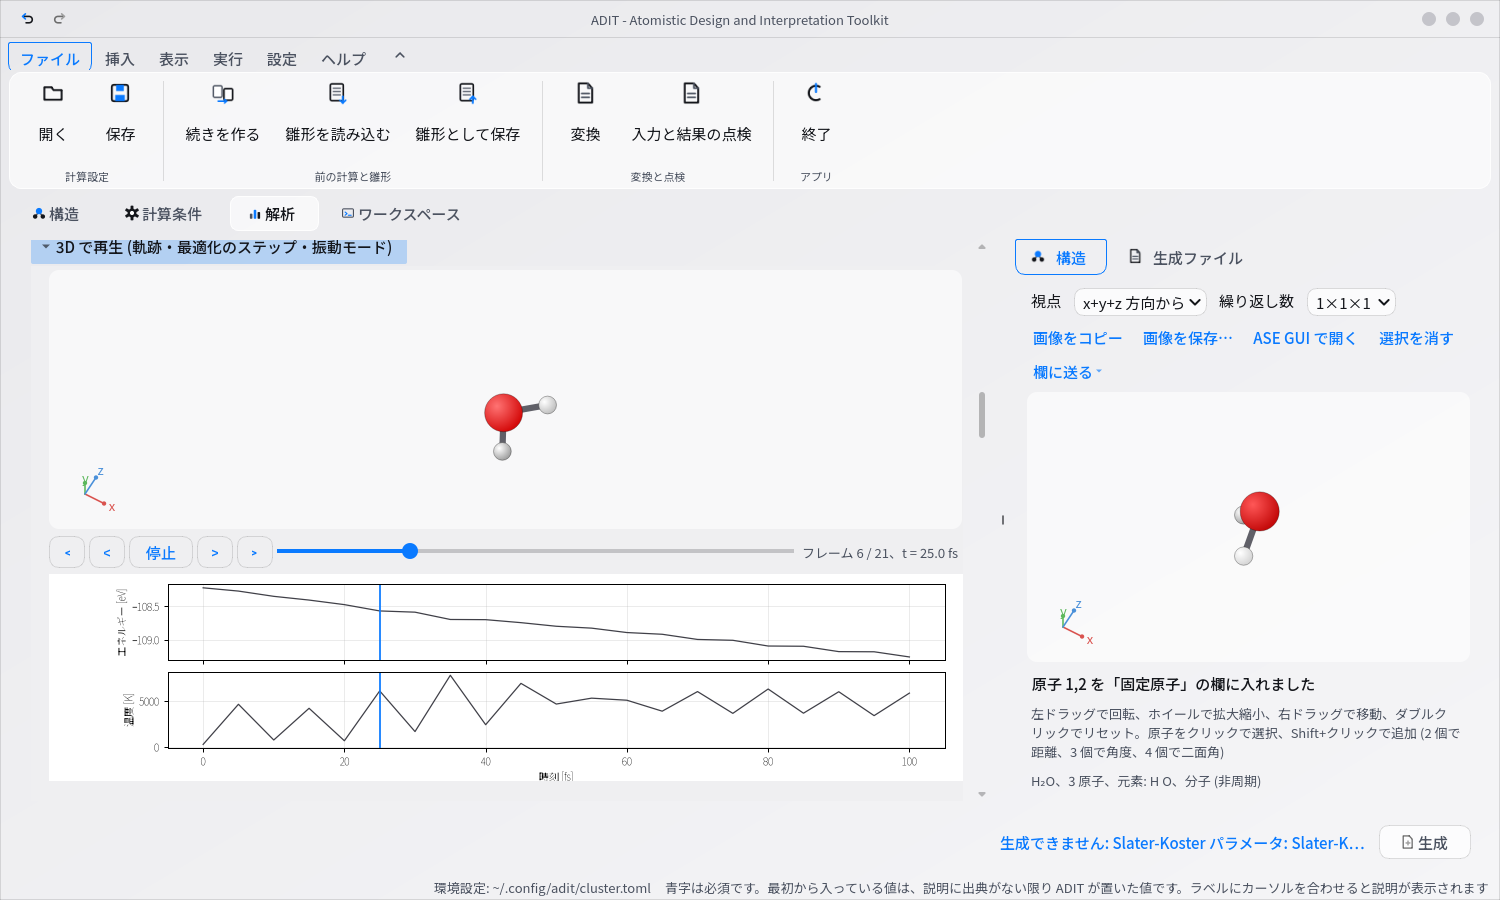
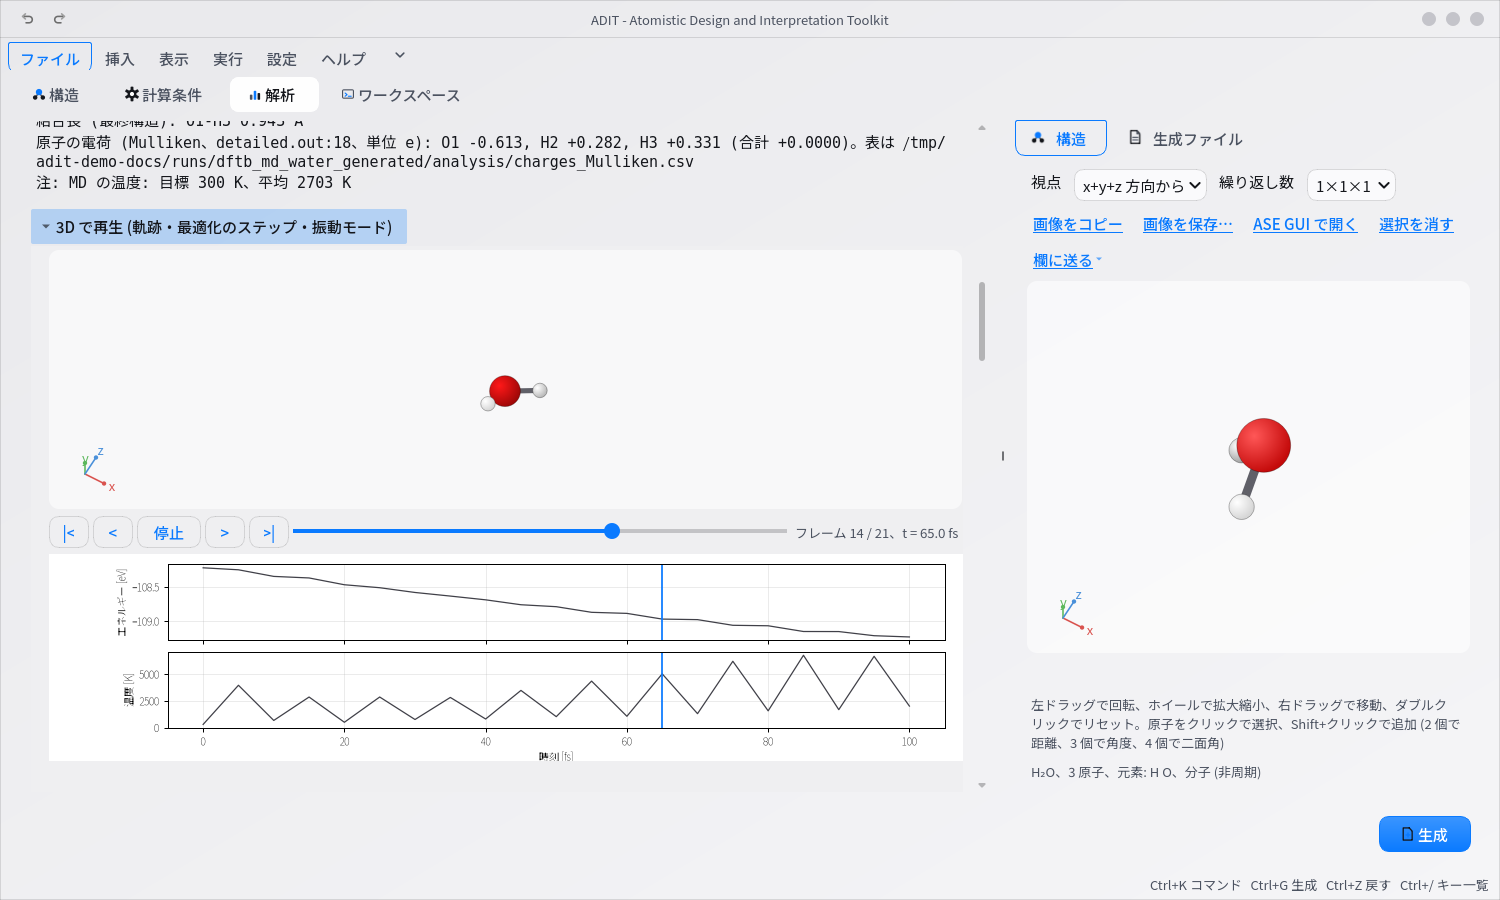
Retake the screenshots and describe the reworked screen
All 19 tutorial images and the six desktop/viewer images are taken again
with the current interface: required marks as pills, the collapsed ribbon
(opened only in the ribbon images), the badge and per-field reasons when
nothing can be generated, the changed-field bars, the split status bar and
the run in the workspace terminal. The tutorial and the screen description
now describe those parts instead of the blue labels and the old status line.

diff --git a/docs/SCREENS.md b/docs/SCREENS.md
@@ -12,10 +12,11 @@
 - **進捗と空の領域**: 「作る」と「解析を実行」は裏で動きます。1 秒未満なら何も出ず、1 秒を超えると進捗バーと「中止」が出て、10 秒を超えると割合と残り時間の目安に変わります (溶液の詰め込みは分子数、組み立て手順は手順数で数えます)。まだ何もない領域 (ワークスペースのエディタ、解析の結果、生成できないときの生成ファイル、一括生成の画面) には、見出しと 1 行の説明と次に押すボタンが出ます
 - **コマンドパレット** (Ctrl+K): 操作・欄・プリセットを名前で検索して、そのまま実行したり欄へ飛んだりできます。日本語でも英語でも探せます (例「温度」「generate」「水」)。ボタンにカーソルを合わせると、ショートカットが「生成 (Ctrl+G)」の形で出ます。Ctrl+/ で全ショートカットの一覧が開きます
 - **リボン** (Word と同じ形): 見出しを押すと、その下にボタンが群ごとに並びます。ファイル (計算設定 spec.json を開く・保存、終了)、挿入 (Draw: 分子を描く、構造ファイルの読み込み、溶液に成分を追加)、表示 (右側のタブ)、実行 (生成、1 つの条件を変えて一括生成、段階に分けて生成、まとめて作る: 比べる組・配座・反応経路・フォノン・弾性定数・遷移状態)、設定 (環境設定、言語、テーマ、ウィンドウの枠)、ヘルプ (コマンドパレット、ショートカット一覧、README、ADIT について)。最初は畳まれていて、見出しの列だけが見えます。見出しを押すとその下にボタンが 1 行で並び、ボタンを押すとまた畳まれます。開いたままにするには、見出しの右の ˅ ボタンか Ctrl+F1 を押します (もう一度押すと畳みます)。畳む / 開くの状態は環境設定の `ribbon_collapsed` に保存され、次回も同じ状態で始まります
-- **上端**: 左に小さな「元に戻す / やり直す」(設定の履歴、Ctrl+Z / Ctrl+Shift+Z)。その下に「構造」「計算条件」「解析」「ワークスペース」の切り替えがあり、画面の左側がその内容に変わります
+- **上端**: 題名の行の左に小さな「元に戻す / やり直す」(設定の履歴、Ctrl+Z / Ctrl+Shift+Z)。その下がリボンの見出しの列、さらにその下に「構造」「計算条件」「解析」「ワークスペース」の切り替えがあり、画面の左側がその内容に変わります
 - **左側** (「計算条件」のとき): 2 列に分かれ、左の列に「計算の種類」「k 点」「実行環境とリソース」、右の列に「計算手法」の群が並びます (窓が狭いときは 1 列になります)。「構造」のときは構造の作り方と組み立て手順の群です
-- **右側のタブ**: 構造 (マウスで回せる 3D 表示) と生成ファイル (プレビュー)。「ワークスペース」のときは隠れて、画面全体をファイル・エディタ・ターミナルに使います
+- **右側のタブ**: 構造 (マウスで回せる 3D 表示。原子を選んで距離や角度を測り、欄に送れます) と生成ファイル (プレビュー。生成できないときは、その理由と「欄へ移動」のボタン)。「ワークスペース」のときは隠れて、画面全体をファイル・エディタ・ターミナルに使います
 - **右下**: 「生成」ボタン (Ctrl+G)。押すと出力ディレクトリに入力一式が書かれ、ワークスペースのターミナルがそこへ移動します。生成できないときは、その左に「2 件の不足」のような赤いバッジが出ます。押すと全件の一覧が開き、行を選ぶとその欄へ移動します。問題のある欄は赤い枠で囲まれ、欄の下に理由が赤字で 1 行出ます (直すと消えます)
+- **下端のステータス行**: 左に状態 (生成したファイルの数と次にすること。上書きしたあとの 10 秒間は「元に戻す」)、右にいま使えるキー (Ctrl+K コマンド、Ctrl+G 生成、Ctrl+Z 戻す、Ctrl+/ キー一覧。ワークスペースでは Ctrl+S 保存)。ラベルや入力欄にカーソルを合わせると、その欄の説明が左側に出ます
 
 「必須」の印が付いた青字のラベルは必須項目、黒字は既定値のある任意項目です。最初から入っている値は、説明に出典がない限り ADIT が置いた値です。既定 (spec.json の既定値 = 計算コード自身の既定) から変えた欄は、ラベルの左に細い青い線が付きます (雛形から読み込んだ値は灰色の線)。ラベルを右クリックすると「既定に戻す (コードの既定: 200)」でその欄だけ戻せます。「計算条件」の右上の「変えた欄だけ」を押すと、変えた欄 (と計算コード) だけが表示されます。ラベルや入力欄にカーソルを合わせると、その値が何を指定するものかの短い説明が、ツールチップと画面下端に表示されます。
 

diff --git a/docs/USAGE.md b/docs/USAGE.md
@@ -23,8 +23,8 @@
 
 ![計算条件タブ](images/tutorial/02_settings.png)
 
-- **青い文字の欄は必須**です。空欄のままだと生成できません
-- 最初から入っている値は、計算コード自身の既定値です (ADIT が勧めた値ではありません)
+- **「必須」の印が付いた欄は必須**です。空欄のままだと、右下の **生成** の左に「1 件の不足」のような赤いバッジが出て、その欄の下に理由が赤字で出ます (バッジを押すと全件の一覧が開き、行を選ぶとその欄へ移動します)
+- 最初から入っている値は、計算コード自身の既定値です (ADIT が勧めた値ではありません)。既定から変えた欄は、ラベルの左に細い青い線が付きます (右上の **変えた欄だけ** で、その欄だけを表示できます)
 - ラベルにカーソルを合わせると、その欄の説明が出ます
 
 ## 3. 入力ファイルを作る
@@ -66,6 +66,7 @@
 ![解析の結果](images/tutorial/06_analysis_result.png)
 
 数値には単位と、その値を読み取ったファイル名・行番号が付きます。
+軌跡のある計算 (MD や振動解析) では、要約の下の **3D で再生** で、軌跡や振動モードを動かして見られます。
 
 ---
 
